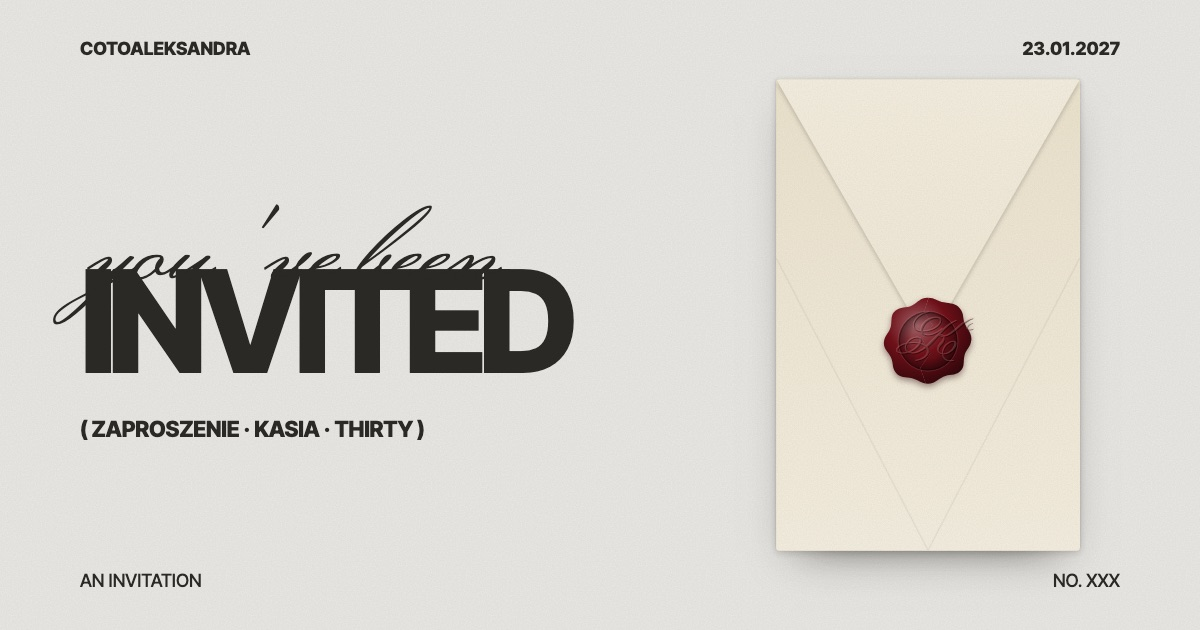
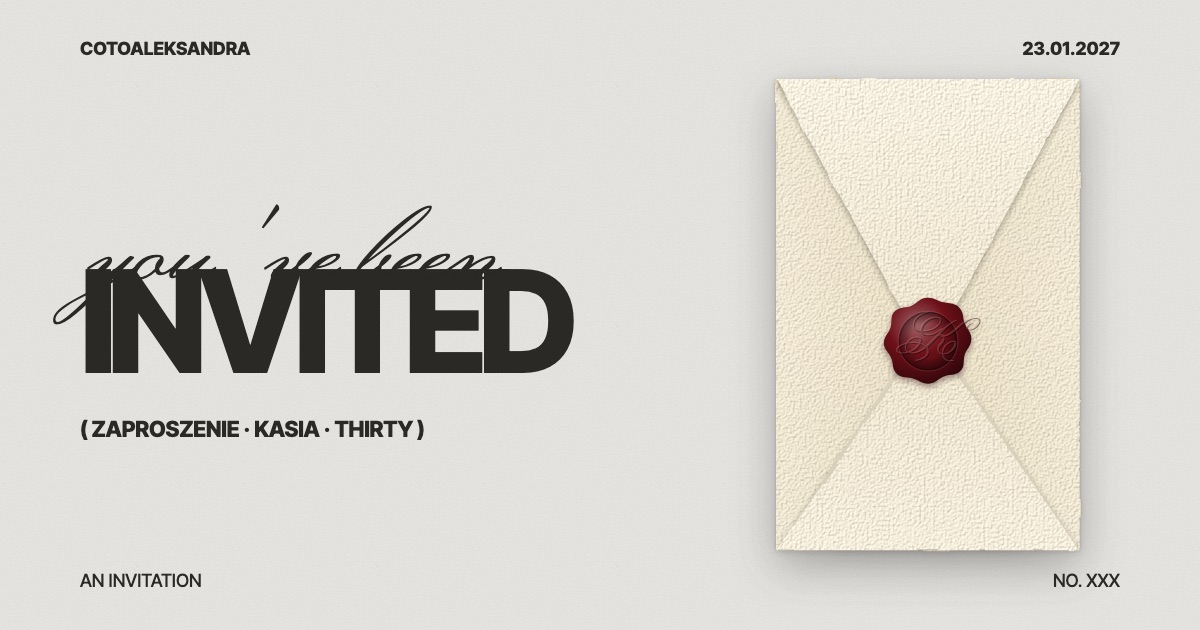
Rough paper envelope, peel-off seal; order button opens Instagram DMs

diff --git a/demo/index.html b/demo/index.html
@@ -33,7 +33,38 @@
     <section class="hero" id="hero">
       <div class="stage" id="stage">
         <!-- envelope parts are siblings of the card so the card can sit between them -->
-        <div class="env env-back"></div>
+        <svg class="env-defs" width="0" height="0" aria-hidden="true" focusable="false">
+          <defs>
+            <!-- rough paper: wobbly torn-ish edges + raised tooth lit from the top left -->
+            <filter id="paper-a" x="-4%" y="-4%" width="108%" height="108%" color-interpolation-filters="sRGB">
+              <feTurbulence type="fractalNoise" baseFrequency=".07" numOctaves="3" seed="4" result="warp"/>
+              <feDisplacementMap in="SourceGraphic" in2="warp" scale="1.1" xChannelSelector="R" yChannelSelector="G" result="shape"/>
+              <feTurbulence type="fractalNoise" baseFrequency="1.1" numOctaves="3" seed="11" result="tooth"/>
+              <feDiffuseLighting in="tooth" surfaceScale=".9" lighting-color="#fff" result="lit"><feDistantLight azimuth="225" elevation="52"/></feDiffuseLighting>
+              <feTurbulence type="fractalNoise" baseFrequency=".018" numOctaves="2" seed="2" result="mottle"/>
+              <feColorMatrix in="mottle" type="matrix" values="0 0 0 0 1  0 0 0 0 1  0 0 0 0 1  -.9 0 0 0 .95" result="mottleA"/>
+              <feComposite in="shape" in2="lit" operator="arithmetic" k1=".22" k2=".84" result="tex"/>
+              <feComposite in="tex" in2="mottleA" operator="arithmetic" k1="0" k2="1" k3="-.05" result="tex2"/>
+              <feComposite in="tex2" in2="shape" operator="in"/>
+            </filter>
+            <filter id="paper-b" x="-4%" y="-4%" width="108%" height="108%" color-interpolation-filters="sRGB">
+              <feTurbulence type="fractalNoise" baseFrequency=".07" numOctaves="3" seed="9" result="warp"/>
+              <feDisplacementMap in="SourceGraphic" in2="warp" scale="1.1" xChannelSelector="R" yChannelSelector="G" result="shape"/>
+              <feTurbulence type="fractalNoise" baseFrequency="1.1" numOctaves="3" seed="23" result="tooth"/>
+              <feDiffuseLighting in="tooth" surfaceScale=".9" lighting-color="#fff" result="lit"><feDistantLight azimuth="225" elevation="52"/></feDiffuseLighting>
+              <feComposite in="shape" in2="lit" operator="arithmetic" k1=".22" k2=".84" result="tex"/>
+              <feComposite in="tex" in2="shape" operator="in"/>
+            </filter>
+            <filter id="soft" x="-10%" y="-10%" width="120%" height="130%"><feGaussianBlur stdDeviation="1.1"/></filter>
+            <linearGradient id="g-back" x1="0" y1="0" x2="0" y2="1"><stop offset="0" stop-color="#d9cdb0"/><stop offset="1" stop-color="#e3d8bd"/></linearGradient>
+            <linearGradient id="g-side" x1="0" y1="0" x2="1" y2="0"><stop offset="0" stop-color="#efe7d3"/><stop offset="1" stop-color="#e6dcc3"/></linearGradient>
+            <linearGradient id="g-side-r" x1="1" y1="0" x2="0" y2="0"><stop offset="0" stop-color="#efe7d3"/><stop offset="1" stop-color="#e6dcc3"/></linearGradient>
+            <linearGradient id="g-bottom" x1="0" y1="1" x2="0" y2="0"><stop offset="0" stop-color="#f3ecdb"/><stop offset="1" stop-color="#ebe2cb"/></linearGradient>
+            <linearGradient id="g-flap" x1="0" y1="0" x2="0" y2="1"><stop offset="0" stop-color="#f5efe0"/><stop offset="1" stop-color="#ece3cc"/></linearGradient>
+            <linearGradient id="g-flap-in" x1="0" y1="1" x2="0" y2="0"><stop offset="0" stop-color="#dfd3b6"/><stop offset="1" stop-color="#e8dec5"/></linearGradient>
+          </defs>
+        </svg>
+        <div class="env env-back"><svg viewBox="0 0 116 180" aria-hidden="true"><rect width="116" height="180" rx="1.4" fill="url(#g-back)" filter="url(#paper-a)"/></svg></div>
 
         <div class="card" id="card" role="button" tabindex="-1" aria-label="card">
           <div class="card-inner">
@@ -62,8 +93,25 @@
           </div>
         </div>
 
-        <div class="env env-pocket-wrap"><div class="env-pocket"></div></div>
-        <div class="env env-flap-wrap" id="flap"><div class="env-flap"></div></div>
+        <div class="env env-pocket-wrap"><svg class="env-pocket" viewBox="0 0 116 180" aria-hidden="true">
+          <path d="M1.5 2 L58 93 L114.5 2 V178 H1.5 Z" fill="#e8dec6"/>
+          <g filter="url(#paper-a)">
+            <path d="M0 0 L55 91 Q57.5 95.5 54.5 99 L0 180 Z" fill="url(#g-side)"/>
+            <path d="M116 0 L61 91 Q58.5 95.5 61.5 99 L116 180 Z" fill="url(#g-side-r)"/>
+          </g>
+          <path d="M0 180 L53 104 Q58 97 63 104 L116 180 Z" transform="translate(0 -1.4)" fill="rgba(42,41,38,.12)" filter="url(#soft)"/>
+          <path d="M0 180 L53 104 Q58 97 63 104 L116 180 Z" fill="url(#g-bottom)" filter="url(#paper-b)"/>
+        </svg></div>
+        <div class="env env-flap-wrap" id="flap">
+          <svg class="env-flap" viewBox="0 0 116 180" aria-hidden="true">
+            <path d="M0 0 H116 L62 99 Q58 105 54 99 Z" transform="translate(0 1.6)" fill="rgba(42,41,38,.3)" filter="url(#soft)"/>
+            <path d="M0 0 H116 L62 99 Q58 105 54 99 Z" fill="url(#g-flap)" filter="url(#paper-b)"/>
+            <circle class="residue" cx="58" cy="100.5" r="14" filter="url(#soft)"/>
+          </svg>
+          <svg class="env-flap env-flap-in" viewBox="0 0 116 180" aria-hidden="true">
+            <path d="M0 180 H116 L62 81 Q58 75 54 81 Z" fill="url(#g-flap-in)" filter="url(#paper-a)"/>
+          </svg>
+        </div>
 
         <button class="seal" id="seal" aria-label="Open the envelope">
           <svg viewBox="0 0 120 120" aria-hidden="true">
@@ -77,8 +125,6 @@
                 <stop offset=".6" stop-color="rgba(0,0,0,0)"/>
                 <stop offset="1" stop-color="rgba(0,0,0,.35)"/>
               </radialGradient>
-              <clipPath id="half-l"><path d="M0 0H62L55 22 66 40 52 58 63 77 50 96 58 120H0Z"/></clipPath>
-              <clipPath id="half-r"><path d="M62 0H120V120H58L50 96 63 77 52 58 66 40 55 22Z"/></clipPath>
               <g id="seal-art">
                 <path d="M60 4c9 0 13 5 21 6 9 2 15 1 21 8 6 7 3 13 7 21 4 8 9 12 8 21-1 9-7 12-9 20-2 9 1 15-6 21-7 6-14 3-22 7-8 4-11 9-20 9s-13-5-21-7c-9-2-15 0-21-7s-3-13-7-21c-4-8-10-11-9-20 1-9 7-12 9-20 2-8-1-15 6-21 7-6 14-3 22-7 8-4 11-10 20-10z" fill="url(#wax)"/>
                 <circle cx="60" cy="61" r="38" fill="url(#press)"/>
@@ -88,8 +134,7 @@
                 <text id="seal-txt2" x="59" y="75" text-anchor="middle" font-family="Monsieur La Doulaise, cursive" font-size="54" fill="rgba(255,170,170,.22)"></text>
               </g>
             </defs>
-            <g class="half l"><use href="#seal-art" clip-path="url(#half-l)"/></g>
-            <g class="half r"><use href="#seal-art" clip-path="url(#half-r)"/></g>
+            <use href="#seal-art"/>
           </svg>
         </button>
       </div>

diff --git a/templates/index.html b/templates/index.html
@@ -33,7 +33,38 @@
     <section class="hero" id="hero">
       <div class="stage" id="stage">
         <!-- envelope parts are siblings of the card so the card can sit between them -->
-        <div class="env env-back"></div>
+        <svg class="env-defs" width="0" height="0" aria-hidden="true" focusable="false">
+          <defs>
+            <!-- rough paper: wobbly torn-ish edges + raised tooth lit from the top left -->
+            <filter id="paper-a" x="-4%" y="-4%" width="108%" height="108%" color-interpolation-filters="sRGB">
+              <feTurbulence type="fractalNoise" baseFrequency=".07" numOctaves="3" seed="4" result="warp"/>
+              <feDisplacementMap in="SourceGraphic" in2="warp" scale="1.1" xChannelSelector="R" yChannelSelector="G" result="shape"/>
+              <feTurbulence type="fractalNoise" baseFrequency="1.1" numOctaves="3" seed="11" result="tooth"/>
+              <feDiffuseLighting in="tooth" surfaceScale=".9" lighting-color="#fff" result="lit"><feDistantLight azimuth="225" elevation="52"/></feDiffuseLighting>
+              <feTurbulence type="fractalNoise" baseFrequency=".018" numOctaves="2" seed="2" result="mottle"/>
+              <feColorMatrix in="mottle" type="matrix" values="0 0 0 0 1  0 0 0 0 1  0 0 0 0 1  -.9 0 0 0 .95" result="mottleA"/>
+              <feComposite in="shape" in2="lit" operator="arithmetic" k1=".22" k2=".84" result="tex"/>
+              <feComposite in="tex" in2="mottleA" operator="arithmetic" k1="0" k2="1" k3="-.05" result="tex2"/>
+              <feComposite in="tex2" in2="shape" operator="in"/>
+            </filter>
+            <filter id="paper-b" x="-4%" y="-4%" width="108%" height="108%" color-interpolation-filters="sRGB">
+              <feTurbulence type="fractalNoise" baseFrequency=".07" numOctaves="3" seed="9" result="warp"/>
+              <feDisplacementMap in="SourceGraphic" in2="warp" scale="1.1" xChannelSelector="R" yChannelSelector="G" result="shape"/>
+              <feTurbulence type="fractalNoise" baseFrequency="1.1" numOctaves="3" seed="23" result="tooth"/>
+              <feDiffuseLighting in="tooth" surfaceScale=".9" lighting-color="#fff" result="lit"><feDistantLight azimuth="225" elevation="52"/></feDiffuseLighting>
+              <feComposite in="shape" in2="lit" operator="arithmetic" k1=".22" k2=".84" result="tex"/>
+              <feComposite in="tex" in2="shape" operator="in"/>
+            </filter>
+            <filter id="soft" x="-10%" y="-10%" width="120%" height="130%"><feGaussianBlur stdDeviation="1.1"/></filter>
+            <linearGradient id="g-back" x1="0" y1="0" x2="0" y2="1"><stop offset="0" stop-color="#d9cdb0"/><stop offset="1" stop-color="#e3d8bd"/></linearGradient>
+            <linearGradient id="g-side" x1="0" y1="0" x2="1" y2="0"><stop offset="0" stop-color="#efe7d3"/><stop offset="1" stop-color="#e6dcc3"/></linearGradient>
+            <linearGradient id="g-side-r" x1="1" y1="0" x2="0" y2="0"><stop offset="0" stop-color="#efe7d3"/><stop offset="1" stop-color="#e6dcc3"/></linearGradient>
+            <linearGradient id="g-bottom" x1="0" y1="1" x2="0" y2="0"><stop offset="0" stop-color="#f3ecdb"/><stop offset="1" stop-color="#ebe2cb"/></linearGradient>
+            <linearGradient id="g-flap" x1="0" y1="0" x2="0" y2="1"><stop offset="0" stop-color="#f5efe0"/><stop offset="1" stop-color="#ece3cc"/></linearGradient>
+            <linearGradient id="g-flap-in" x1="0" y1="1" x2="0" y2="0"><stop offset="0" stop-color="#dfd3b6"/><stop offset="1" stop-color="#e8dec5"/></linearGradient>
+          </defs>
+        </svg>
+        <div class="env env-back"><svg viewBox="0 0 116 180" aria-hidden="true"><rect width="116" height="180" rx="1.4" fill="url(#g-back)" filter="url(#paper-a)"/></svg></div>
 
         <div class="card" id="card" role="button" tabindex="-1" aria-label="card">
           <div class="card-inner">
@@ -62,8 +93,25 @@
           </div>
         </div>
 
-        <div class="env env-pocket-wrap"><div class="env-pocket"></div></div>
-        <div class="env env-flap-wrap" id="flap"><div class="env-flap"></div></div>
+        <div class="env env-pocket-wrap"><svg class="env-pocket" viewBox="0 0 116 180" aria-hidden="true">
+          <path d="M1.5 2 L58 93 L114.5 2 V178 H1.5 Z" fill="#e8dec6"/>
+          <g filter="url(#paper-a)">
+            <path d="M0 0 L55 91 Q57.5 95.5 54.5 99 L0 180 Z" fill="url(#g-side)"/>
+            <path d="M116 0 L61 91 Q58.5 95.5 61.5 99 L116 180 Z" fill="url(#g-side-r)"/>
+          </g>
+          <path d="M0 180 L53 104 Q58 97 63 104 L116 180 Z" transform="translate(0 -1.4)" fill="rgba(42,41,38,.12)" filter="url(#soft)"/>
+          <path d="M0 180 L53 104 Q58 97 63 104 L116 180 Z" fill="url(#g-bottom)" filter="url(#paper-b)"/>
+        </svg></div>
+        <div class="env env-flap-wrap" id="flap">
+          <svg class="env-flap" viewBox="0 0 116 180" aria-hidden="true">
+            <path d="M0 0 H116 L62 99 Q58 105 54 99 Z" transform="translate(0 1.6)" fill="rgba(42,41,38,.3)" filter="url(#soft)"/>
+            <path d="M0 0 H116 L62 99 Q58 105 54 99 Z" fill="url(#g-flap)" filter="url(#paper-b)"/>
+            <circle class="residue" cx="58" cy="100.5" r="14" filter="url(#soft)"/>
+          </svg>
+          <svg class="env-flap env-flap-in" viewBox="0 0 116 180" aria-hidden="true">
+            <path d="M0 180 H116 L62 81 Q58 75 54 81 Z" fill="url(#g-flap-in)" filter="url(#paper-a)"/>
+          </svg>
+        </div>
 
         <button class="seal" id="seal" aria-label="Open the envelope">
           <svg viewBox="0 0 120 120" aria-hidden="true">
@@ -77,8 +125,6 @@
                 <stop offset=".6" stop-color="rgba(0,0,0,0)"/>
                 <stop offset="1" stop-color="rgba(0,0,0,.35)"/>
               </radialGradient>
-              <clipPath id="half-l"><path d="M0 0H62L55 22 66 40 52 58 63 77 50 96 58 120H0Z"/></clipPath>
-              <clipPath id="half-r"><path d="M62 0H120V120H58L50 96 63 77 52 58 66 40 55 22Z"/></clipPath>
               <g id="seal-art">
                 <path d="M60 4c9 0 13 5 21 6 9 2 15 1 21 8 6 7 3 13 7 21 4 8 9 12 8 21-1 9-7 12-9 20-2 9 1 15-6 21-7 6-14 3-22 7-8 4-11 9-20 9s-13-5-21-7c-9-2-15 0-21-7s-3-13-7-21c-4-8-10-11-9-20 1-9 7-12 9-20 2-8-1-15 6-21 7-6 14-3 22-7 8-4 11-10 20-10z" fill="url(#wax)"/>
                 <circle cx="60" cy="61" r="38" fill="url(#press)"/>
@@ -88,8 +134,7 @@
                 <text id="seal-txt2" x="59" y="75" text-anchor="middle" font-family="Monsieur La Doulaise, cursive" font-size="54" fill="rgba(255,170,170,.22)"></text>
               </g>
             </defs>
-            <g class="half l"><use href="#seal-art" clip-path="url(#half-l)"/></g>
-            <g class="half r"><use href="#seal-art" clip-path="url(#half-r)"/></g>
+            <use href="#seal-art"/>
           </svg>
         </button>
       </div>

diff --git a/kit/invite.css b/kit/invite.css
@@ -62,53 +62,43 @@ body.opened .furn--bottom { position: static; }
 .env { position: absolute; inset: 0; transition: transform 1s cubic-bezier(.6, -.05, .7, .2), opacity 1s; }
 .stage.dropped .env, .stage.dropped .seal { transform: translateY(115vh) rotate(6deg); opacity: 0; pointer-events: none; }
 .stage.gone .env, .stage.gone .seal { visibility: hidden; }
-.env-back {
-  z-index: 1; border-radius: 4px;
-  background: var(--cream-3) var(--grain);
-  box-shadow: 0 18px 40px -18px rgba(42, 41, 38, .5), 0 2px 6px rgba(42, 41, 38, .18);
-}
-.env-pocket-wrap { z-index: 3; filter: drop-shadow(0 -1px 1px rgba(42, 41, 38, .18)); pointer-events: none; }
-.env-pocket {
-  position: absolute; inset: 0; border-radius: 0 0 4px 4px;
-  background:
-    linear-gradient(to top right, transparent 49.6%, rgba(42,41,38,.07) 50%, transparent 50.6%) left bottom / 50% 62% no-repeat,
-    linear-gradient(to top left, transparent 49.6%, rgba(42,41,38,.07) 50%, transparent 50.6%) right bottom / 50% 62% no-repeat,
-    var(--grain), linear-gradient(180deg, var(--cream-2), var(--cream));
-  clip-path: polygon(0 0, 50% 50%, 100% 0, 100% 100%, 0 100%);
-}
+.env svg { position: absolute; inset: 0; width: 100%; height: 100%; overflow: visible; }
+.env-defs { position: absolute; width: 0; height: 0; }
+.env-back { z-index: 1; filter: drop-shadow(0 16px 22px rgba(42, 41, 38, .28)) drop-shadow(0 2px 3px rgba(42, 41, 38, .2)); }
+.env-pocket-wrap { z-index: 3; filter: drop-shadow(0 -1px 1px rgba(42, 41, 38, .16)); pointer-events: none; }
+/* the flap is a 3D hinge: no CSS filter on it (filters flatten 3D and break it in Safari); its shadow is drawn in the SVG */
 .env-flap-wrap {
   z-index: 4; transform-origin: 50% 0; transform-style: preserve-3d;
-  filter: drop-shadow(0 3px 2px rgba(42, 41, 38, .22));
-  transition: transform .75s cubic-bezier(.45, 0, .2, 1);
+  transition: transform .8s cubic-bezier(.45, 0, .2, 1);
   pointer-events: none;
 }
-.env-flap {
-  position: absolute; inset: 0;
-  background: var(--grain), linear-gradient(180deg, var(--cream), var(--cream-2));
-  clip-path: polygon(0 0, 100% 0, 50% 56%);
-  border-radius: 4px 4px 0 0;
-}
+.env-flap { backface-visibility: hidden; -webkit-backface-visibility: hidden; }
+.env-flap-in { transform: rotateX(180deg); }
+.residue { fill: var(--wax, #6e1018); opacity: 0; transition: opacity .5s .25s; }
+.stage.peeled .residue { opacity: .14; }
 .stage.open .env-flap-wrap { transform: rotateX(178deg); }
 .stage.flap-behind .env-flap-wrap { z-index: 0; }
 .stage.dropped .env-flap-wrap { transform: translateY(115vh) rotateX(178deg); }
+/* while it opens, step back a little so the open flap and the rising card stay on screen */
+.stage { transform-origin: 50% 100%; transition: scale .9s cubic-bezier(.4, 0, .2, 1), translate .9s cubic-bezier(.4, 0, .2, 1); }
+.stage.open:not(.dropped) { scale: .8; translate: 0 9%; }
 
 /* wax seal */
 .seal {
   position: absolute; z-index: 6; width: calc(var(--ew) * .3); aspect-ratio: 1;
-  left: 50%; top: calc(var(--eh) * .56); transform: translate(-50%, -50%);
+  left: 50%; top: calc(var(--eh) * .56); transform: translate(-50%, -50%); transform-origin: 82% 18%;
   filter: drop-shadow(0 3px 3px rgba(40, 5, 8, .45)); transition: transform 1s cubic-bezier(.6, -.05, .7, .2), opacity 1s;
   animation: breathe 2.8s ease-in-out infinite;
 }
 .seal svg { width: 100%; height: 100%; overflow: visible; }
-.seal .half { transition: transform .7s cubic-bezier(.3, .6, .4, 1), opacity .7s .15s; transform-box: fill-box; }
-.seal .half.l { transform-origin: 30% 80%; }
-.seal .half.r { transform-origin: 70% 80%; }
-.stage.cracked .seal { animation: crack-shake .28s linear; }
-.stage.cracked .seal .half.l { transform: translate(-26px, 34px) rotate(-28deg); opacity: 0; }
-.stage.cracked .seal .half.r { transform: translate(26px, 40px) rotate(24deg); opacity: 0; }
-.stage.cracked .seal { pointer-events: none; }
+.stage.peeled .seal { animation: peel .75s cubic-bezier(.55, 0, .7, .4) forwards; pointer-events: none; }
 @keyframes breathe { 50% { transform: translate(-50%, -50%) scale(1.04); } }
-@keyframes crack-shake { 25% { transform: translate(-52%, -50%) rotate(-3deg); } 75% { transform: translate(-48%, -50%) rotate(3deg); } }
+/* peels off like a sticker: the bottom-left edge lifts first, then it comes away */
+@keyframes peel {
+  0%   { transform: translate(-50%, -50%); filter: drop-shadow(0 3px 3px rgba(40, 5, 8, .45)); }
+  35%  { transform: translate(-50%, -52%) rotate3d(1, -1, 0, 38deg); filter: drop-shadow(-4px 8px 6px rgba(40, 5, 8, .4)); }
+  100% { transform: translate(10%, -150%) rotate3d(1, -1, .3, 95deg); filter: drop-shadow(-10px 22px 14px rgba(40, 5, 8, 0)); opacity: 0; }
+}
 
 /* ───────── the card ───────── */
 .card {

diff --git a/kit/invite.js b/kit/invite.js
@@ -40,6 +40,7 @@
   const t = (k, ...a) => { const v = T[lang][k]; return typeof v === "function" ? v(...a) : v; };
 
   const stage = $("#stage"), card = $("#card");
+  stage.style.setProperty("--wax", (C.seal && C.seal.wax) || "#6e1018");
   let phase = "closed"; // closed → opening → open
   let photoSrc = null;
 
@@ -110,8 +111,8 @@
     if (phase !== "closed") return;
     phase = "opening"; $("#hint").textContent = "";
     if (navigator.vibrate) navigator.vibrate(18);
-    stage.classList.add("cracked");
-    await wait(450);
+    stage.classList.add("peeled");
+    await wait(620);
     stage.classList.add("open");
     await wait(380);
     stage.classList.add("flap-behind");
@@ -215,7 +216,7 @@
   function showOpened() {
     // skip the envelope (link from the email: ?open=1)
     stage.style.animation = "none";
-    stage.classList.add("cracked", "open", "flap-behind", "rising", "dropped", "gone", "instant");
+    stage.classList.add("peeled", "open", "flap-behind", "rising", "dropped", "gone", "instant");
     phase = "open";
     card.setAttribute("tabindex", "0");
     document.body.classList.add("opened");

diff --git a/index.html b/index.html
@@ -22,7 +22,7 @@
     <h1 class="heavy">OPEN</h1>
     <p>Pieczęć pęka, koperta się otwiera, karta się odwraca. Goście odpowiadają jednym kliknięciem.</p>
     <a class="pill" href="demo/">( zobacz przykład )</a>
-    <a class="pill" href="https://cotoaleksandra.com">( zamów swoje )</a>
+    <a class="pill" href="https://ig.me/m/cotoaleksandra" target="_blank" rel="noopener">( zamów swoje )</a>
   </main>
 </body>
 </html>
